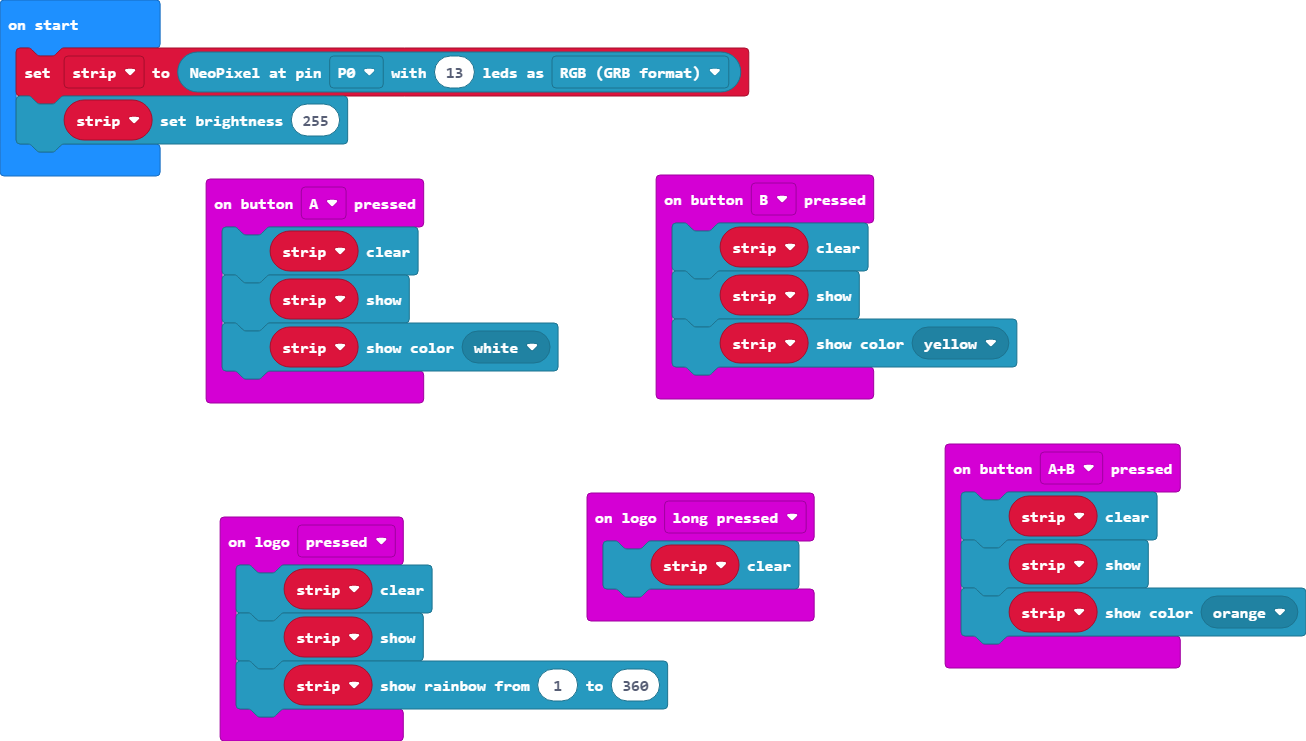
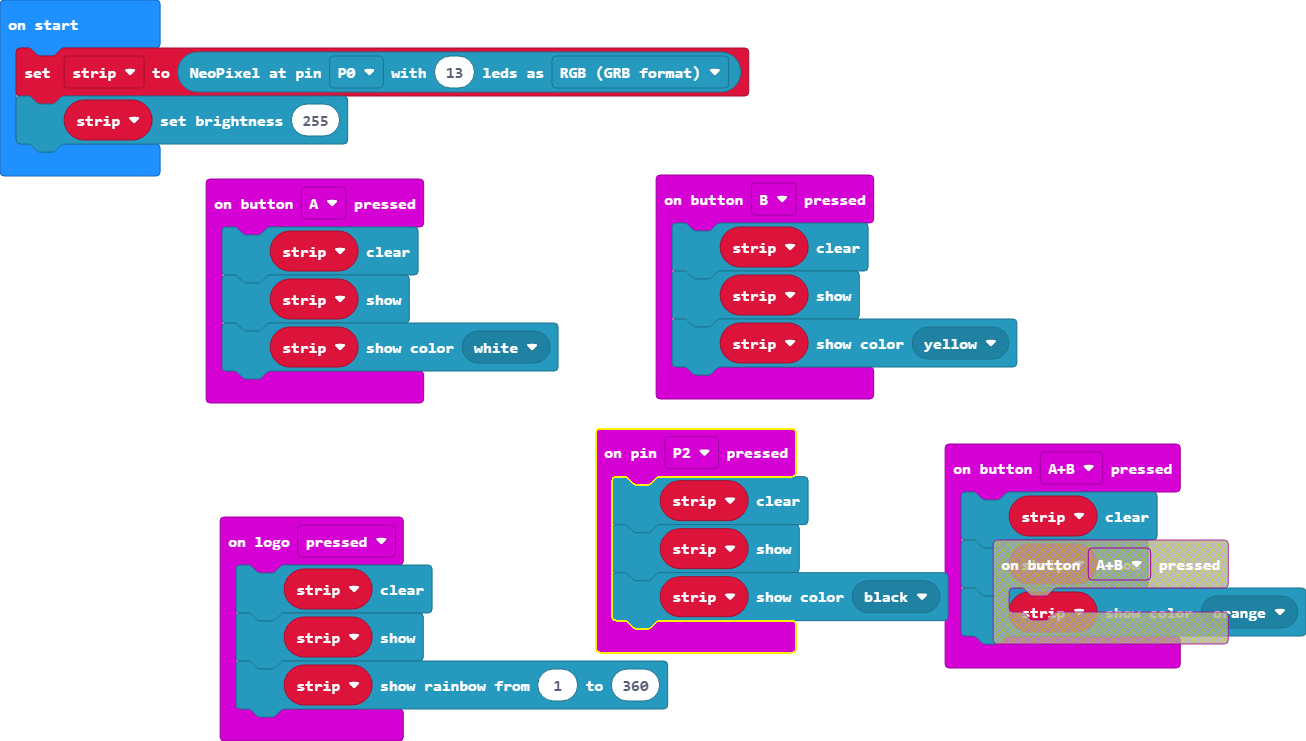
Update main.blocks, main.ts

Changed region(s): [[0.4288, 0.5587, 0.9495, 0.9001]]

diff --git a/main.ts b/main.ts
@@ -1,10 +1,12 @@
-input.onLogoEvent(TouchButtonEvent.LongPressed, function () {
-    strip.clear()
-})
 input.onButtonPressed(Button.A, function () {
     strip.clear()
     strip.show()
     strip.showColor(neopixel.colors(NeoPixelColors.White))
+})
+input.onPinPressed(TouchPin.P2, function () {
+    strip.clear()
+    strip.show()
+    strip.showColor(neopixel.colors(NeoPixelColors.Black))
 })
 input.onButtonPressed(Button.AB, function () {
     strip.clear()
